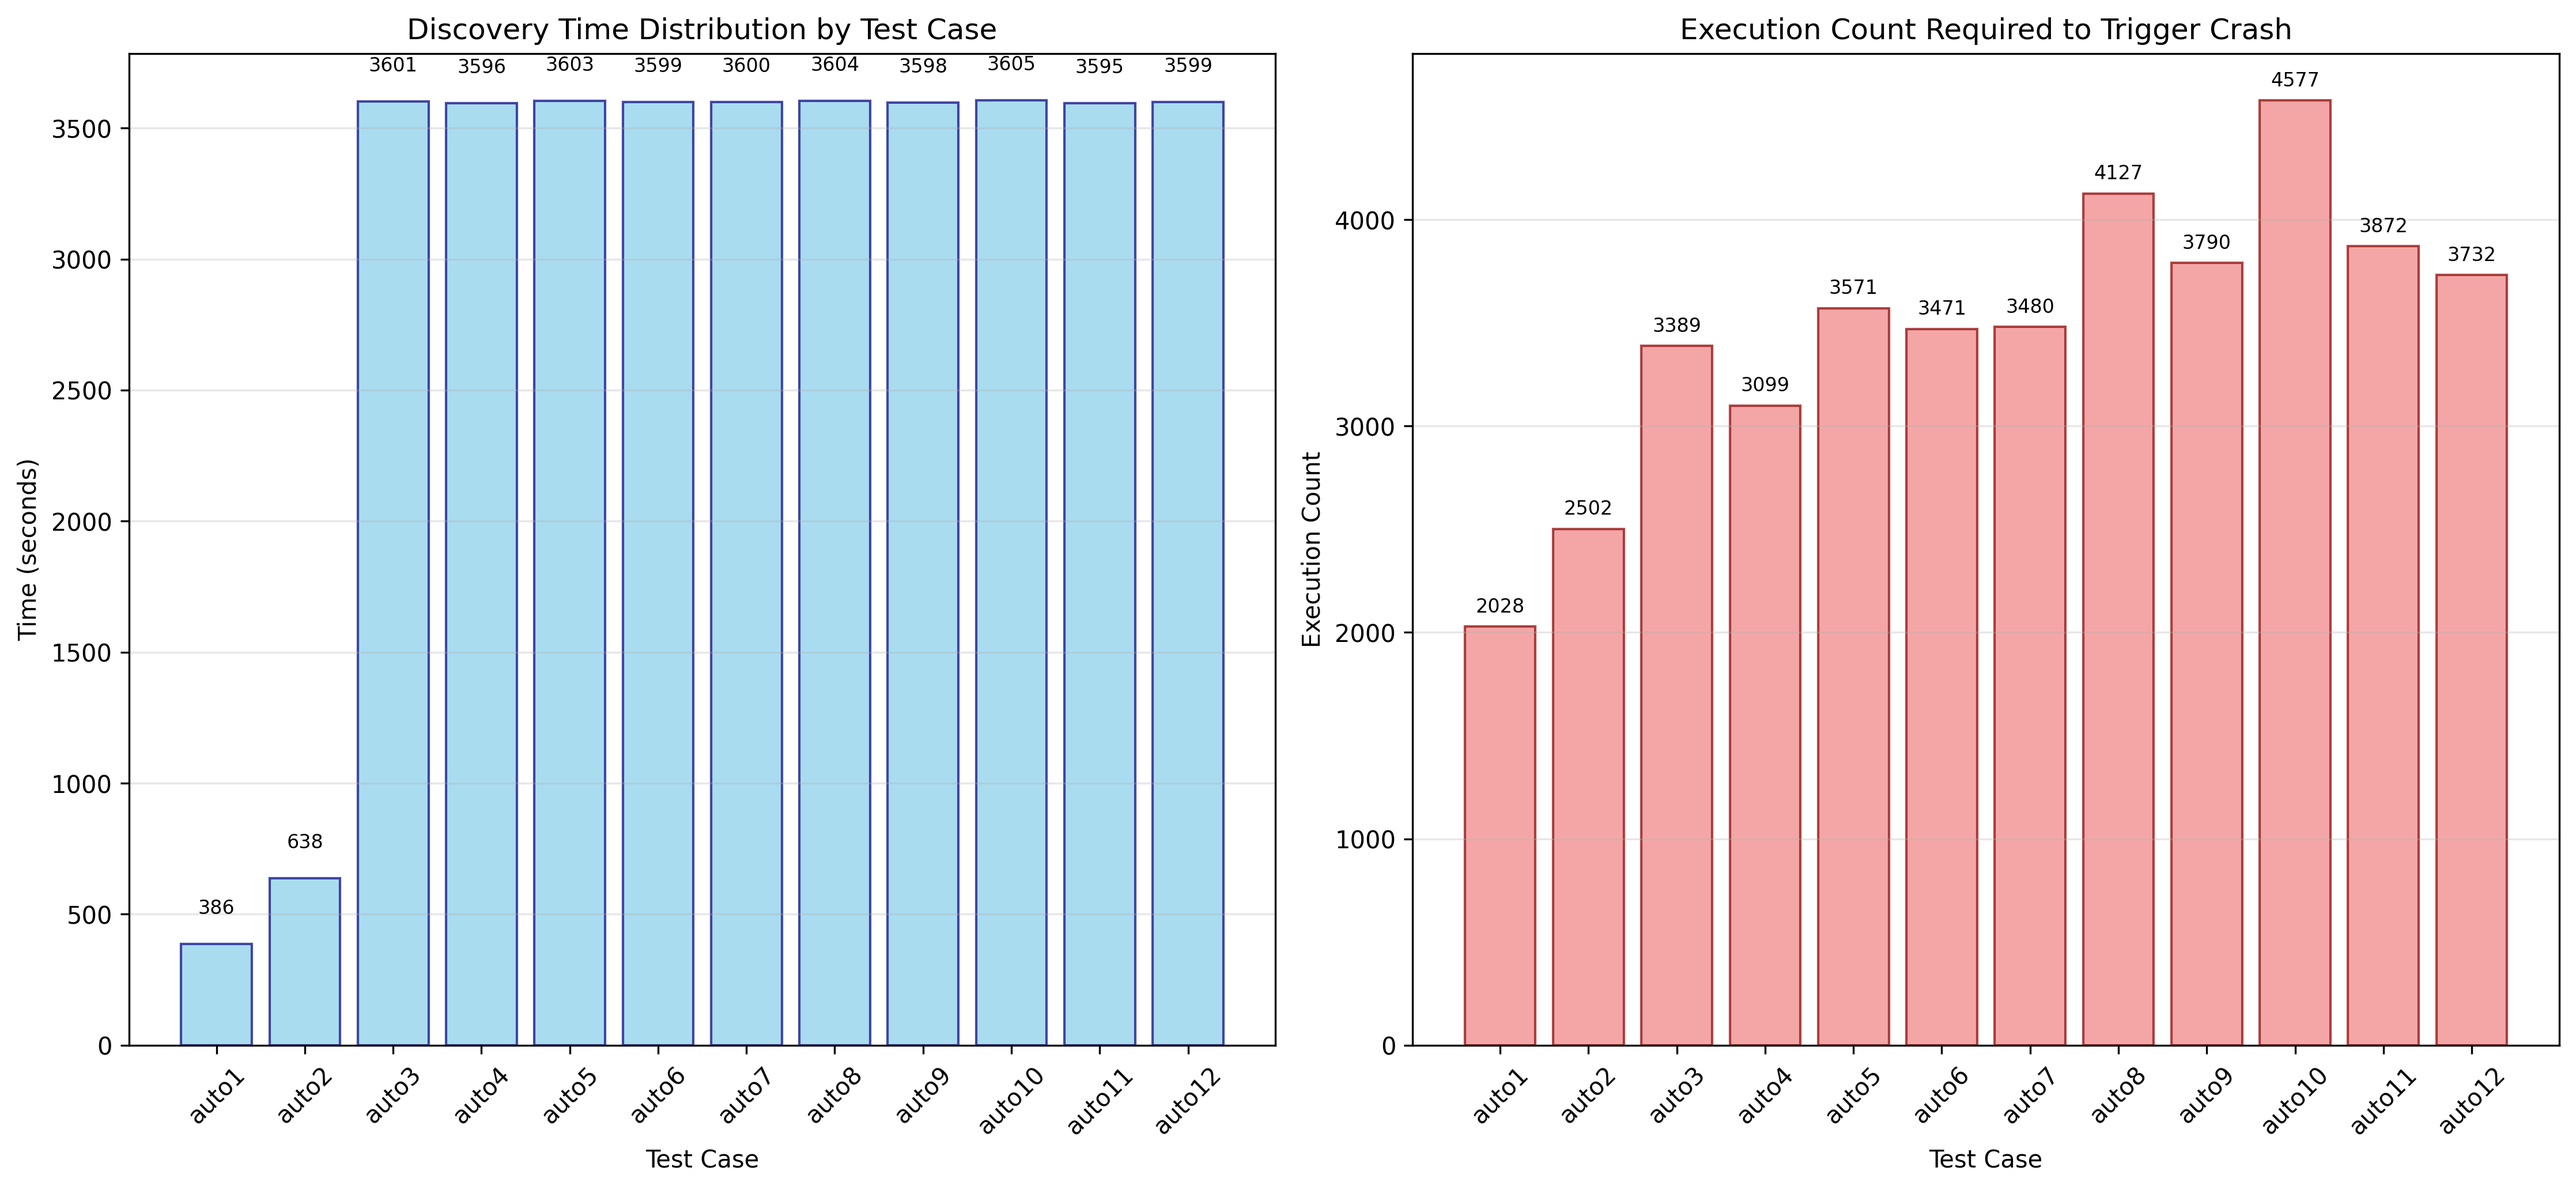
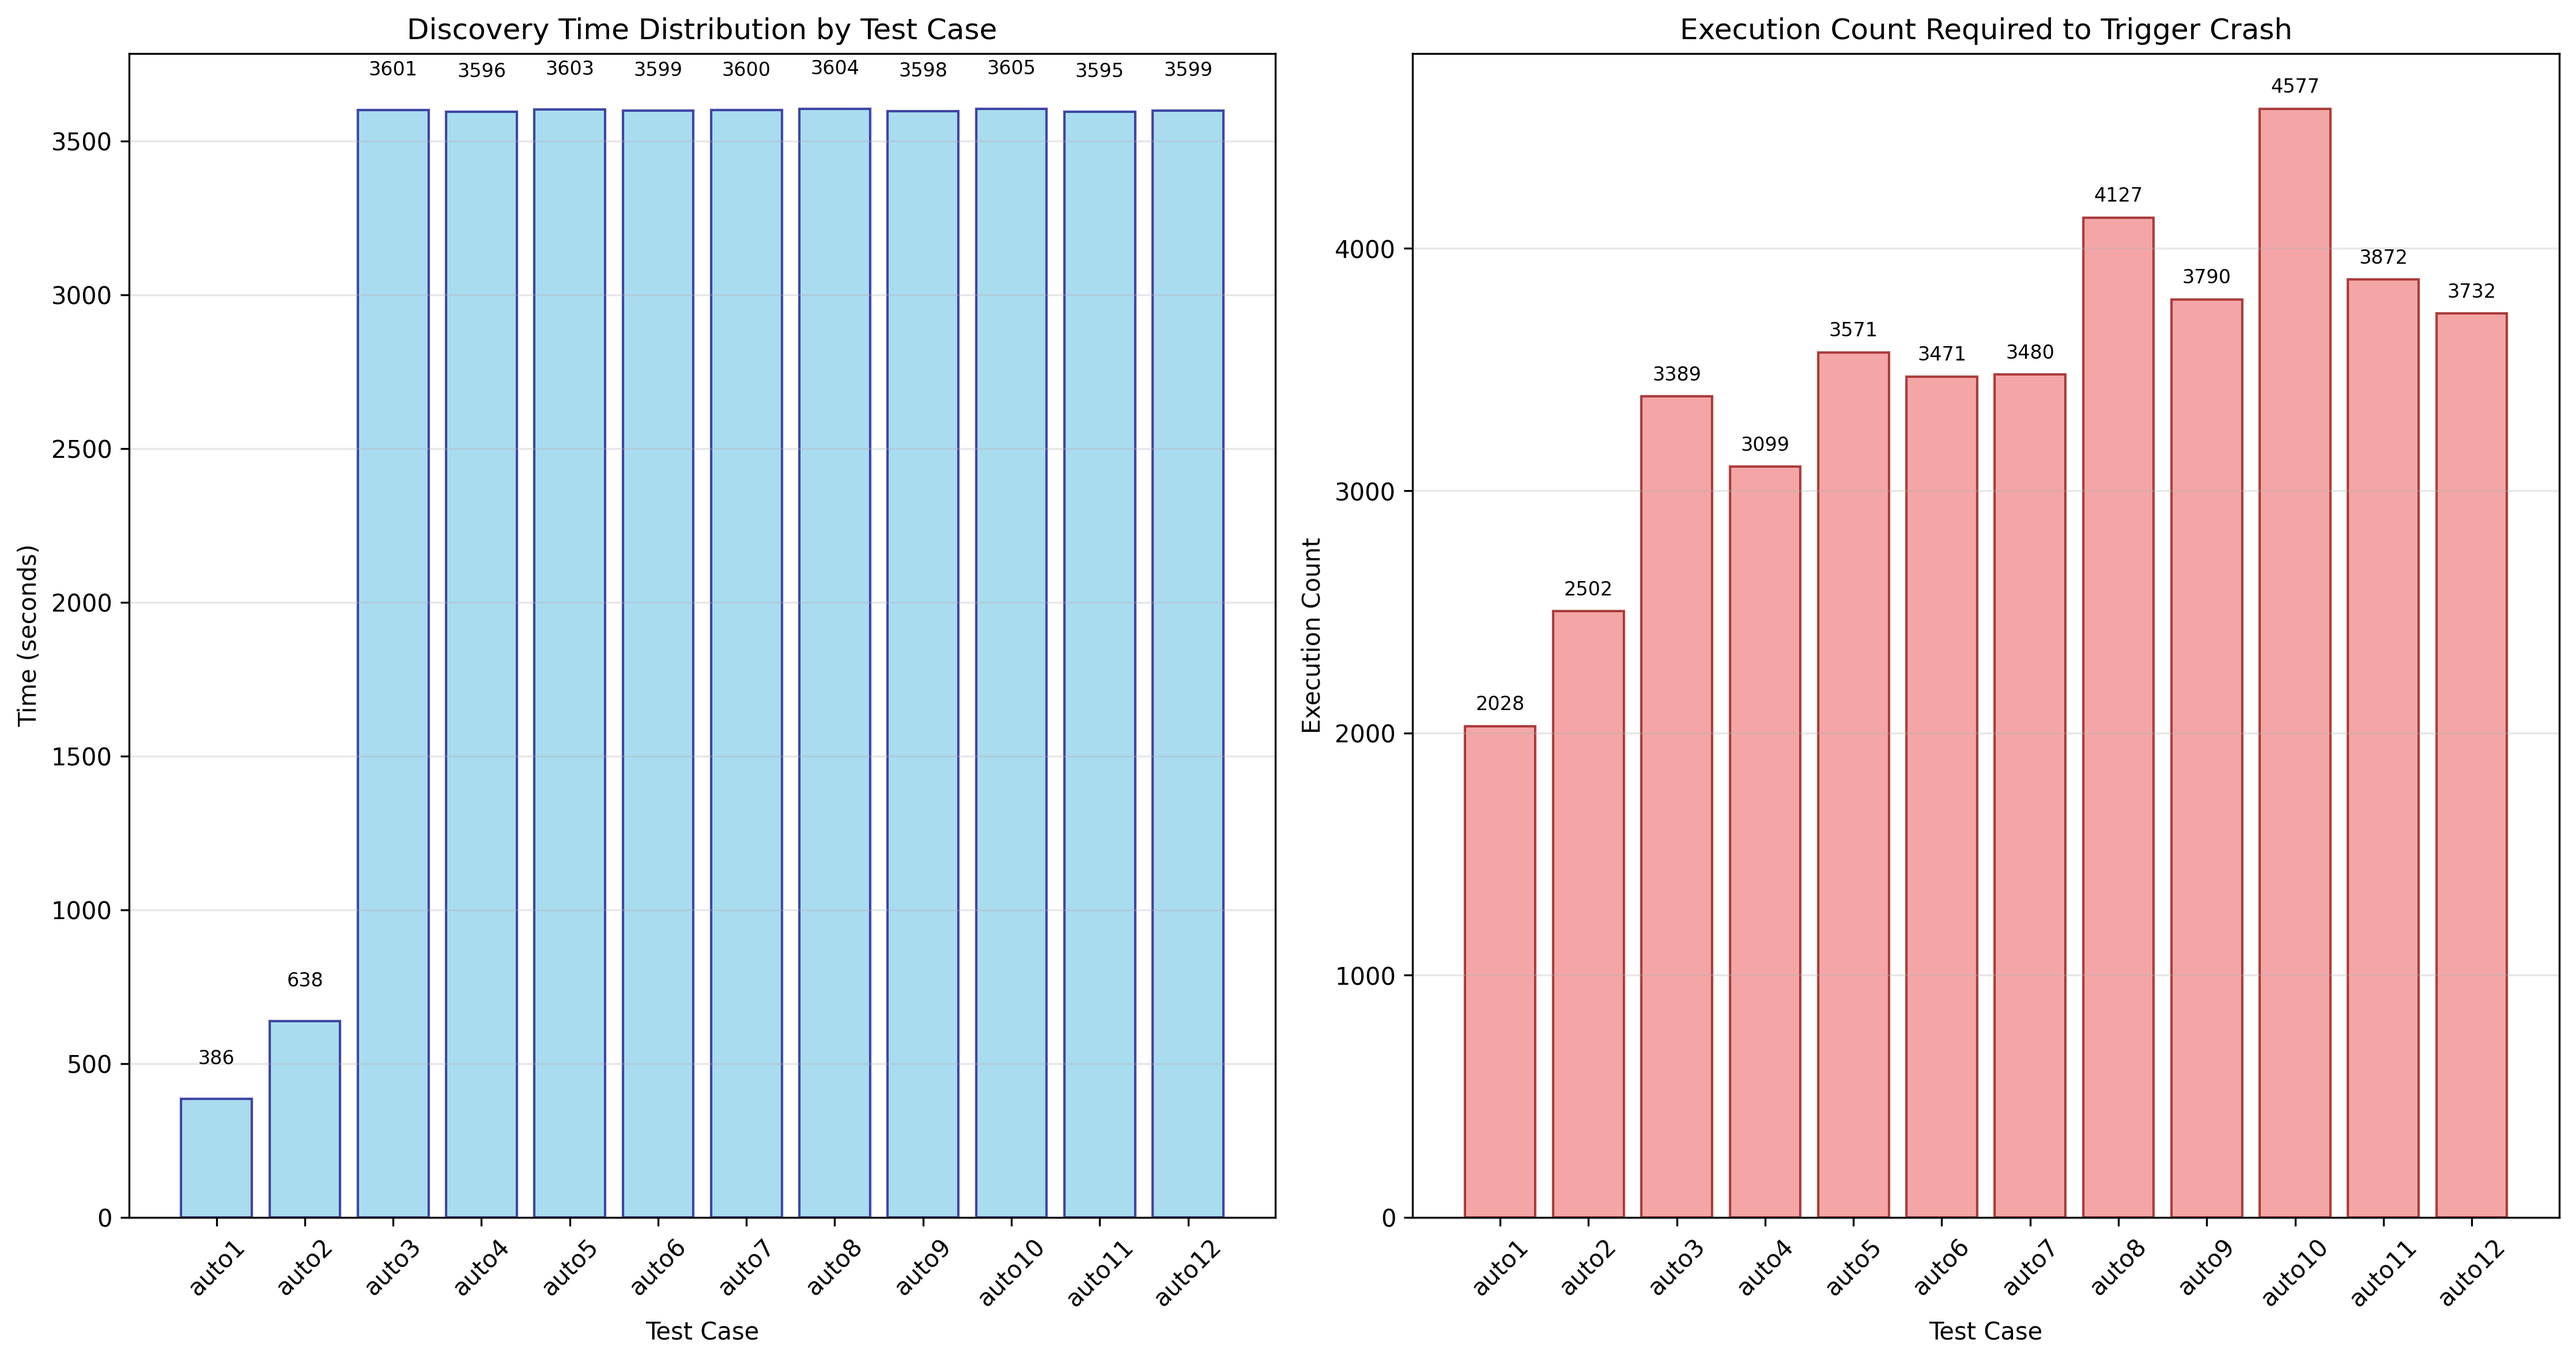
add scripts

diff --git a/draw_picture/draw_crash.py b/draw_picture/draw_crash.py
@@ -64,11 +64,21 @@ def plot_combined_chart(csv_file="afl_crash_data.csv"):
     df = pd.read_csv(csv_file)
     
     # 创建图形和主Y轴
-    fig, ax1 = plt.subplots(figsize=(12, 6))
+    fig, ax1 = plt.subplots(figsize=(16, 8))
     
     # 设置x轴位置
     x = np.arange(len(df['filename']))
     width = 0.35
+    
+    margin_ratio = 0.1
+    
+     # 计算Y轴范围（最大值增加一定比例作为上边距）
+    time_max = df['time_diff_sec'].max()
+    execs_max = df['execs'].max()
+    
+    # 设置Y轴范围，在最大值基础上增加 margin_ratio 的比例
+    time_ylim = (0, time_max * (1 + margin_ratio))
+    execs_ylim = (0, execs_max * (1 + margin_ratio))
     
     # Plot time_sec bar chart
     bars1 = ax1.bar(x - width/2, df['time_diff_sec'], width, 
@@ -76,6 +86,9 @@ def plot_combined_chart(csv_file="afl_crash_data.csv"):
     ax1.set_xlabel('Test Case')
     ax1.set_ylabel('Time (seconds)', color='blue')
     ax1.tick_params(axis='y', labelcolor='blue')
+    ax1.set_ylim(time_ylim)  # 设置第一个Y轴范围[1,5](@ref)
+    
+    
     
     # 创建第二个Y轴
     ax2 = ax1.twinx()
@@ -85,6 +98,7 @@ def plot_combined_chart(csv_file="afl_crash_data.csv"):
                     label='Execution Count', color='lightcoral', alpha=0.8)
     ax2.set_ylabel('Execution Count', color='red')
     ax2.tick_params(axis='y', labelcolor='red')
+    ax2.set_ylim(execs_ylim)  # 设置第二个Y轴范围[1,5](@ref)
     
     # 设置x轴标签
     ax1.set_xticks(x)
